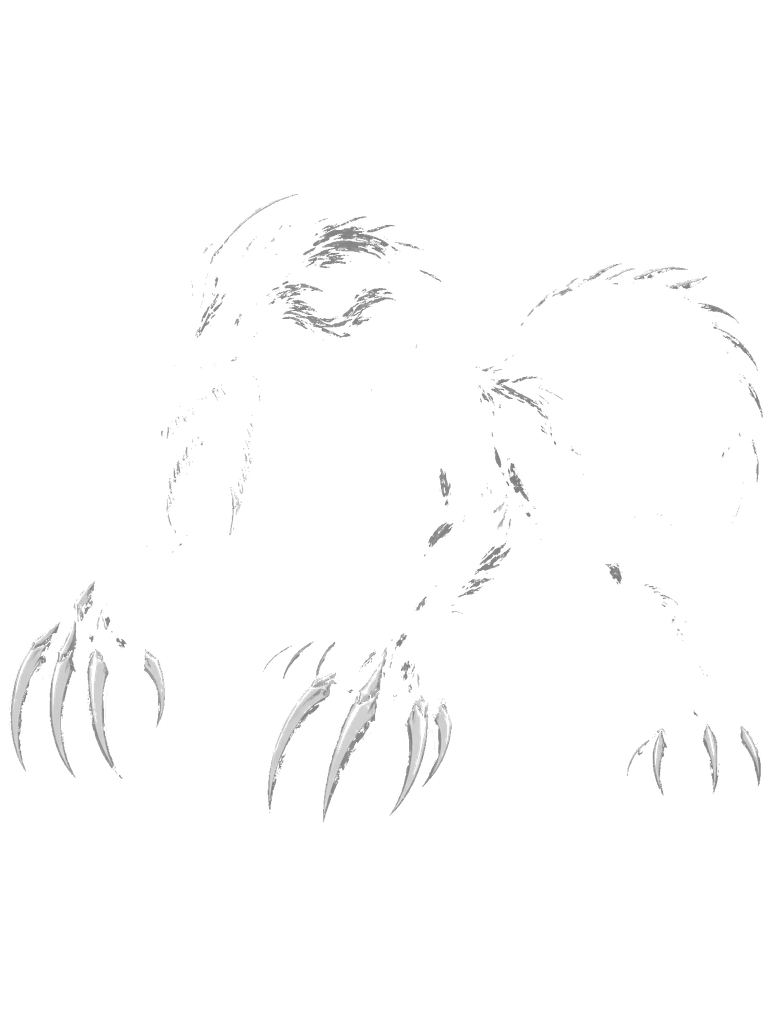
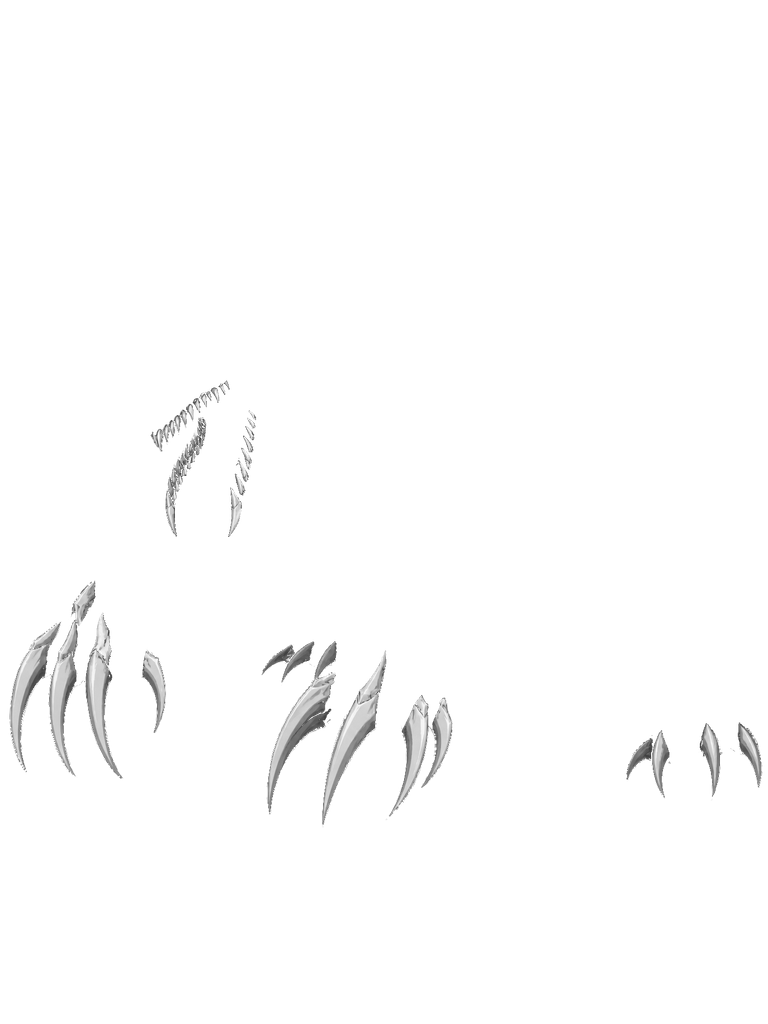
Add safe device progress transfer and refine Devourer selection colors

diff --git a/public/index.html b/public/index.html
@@ -11,6 +11,6 @@
 <section id="help" class="overlay modal" hidden><div class="panel"><h2>How to reign</h2><p>Move with WASD / arrows or the left thumb stick. Basic attacks fire automatically when prey is in range. Aim with your mouse; touch aim follows movement, then locks to nearby prey when stationary.</p><p>Use Q / E / R / Space or 1 / 2 / 3 / 4 for your selected monster's powers. Calamity places Starfall and Vortex with a second tap or click; Cancel or Escape clears the marker. Devourer gains rapid Lunge charges through Release. Lunge follows movement, or your last movement direction when stationary, and each cast briefly dodges damage. Check the kit in the registry. P / Escape pauses.</p><p>Kills add Carnage up to ×5. It decays gradually after 1.6 seconds without a kill. Enemy base points × Carnage earn Dominance. Waves, multikills and Run Feats award additional bonuses.</p><p>Survive to automatically reach Unbound I at 2:30, Unbound II at 5:00, Unbound III at 7:00 and Final Release at 8:30. Each release strengthens your kit. There is no win timer; aim for a longer, higher-scoring run. Ending an incarnation manually records a separate practice best.</p><p>Run Feats repeat within a run and award score. Monster Records and prestige Titles persist locally. Inspect all requirements in Monster Records. Titles grant no combat advantages. The Gatebreaker opens Stage 2 on October 8 after seven qualifying days with one champion. Stay out of red hostile rings.</p><button id="closeHelp" class="primary">I AM THE BOSS</button></div></section>
 <section id="paused" class="overlay modal" hidden><div class="panel"><span class="eyebrow">RITUAL SUSPENDED</span><h2 id="pauseName"></h2><p id="pauseIdentity"></p><div class="match-brief"><b id="pauseScenario"></b><p>Survive the swarm and build Dominance. Keep killing to sustain Carnage; multikills and feats add bonuses. There is no final victory screen.</p><p id="pauseTip"></p><p id="pauseRelease"></p></div><button id="resume" class="primary">RETURN TO CARNAGE</button><button id="endRun">END THIS INCARNATION</button><p>Combat and the run clock are stopped.</p></div></section>
 <section id="result" class="overlay modal" hidden><div class="panel result-panel"><div class="result-hero"><div class="result-copy"><span class="eyebrow">ISEKAI HELL · MONSTER MASH</span><h2 id="resultName"></h2><p id="resultIdentity"></p><div class="result-score"><span class="eyebrow">DOMINANCE</span><strong id="resultScore"></strong></div></div><canvas id="resultPortrait" width="256" height="256" hidden aria-label="Your monster portrait"></canvas></div><p id="resultOutcome" class="reign-outcome"></p><p id="outcomeDescription" class="small"></p><p id="resultContext" class="small"></p><p id="resultComparison" class="personal-best"></p><p id="stageProgress" class="stage-progress" hidden></p><p id="resultHighlight" class="run-highlight"></p><div id="stats" class="stats"></div><section id="newRecords" hidden></section><section id="newTitles" hidden></section><section><h3>RUN FEATS</h3><div id="feats" class="result-feats"></div></section><p class="small">Your body falls. Your legend remains.</p><div class="result-actions"><button id="again" class="primary">RISE AGAIN ↗</button><button id="back">CHANGE INCARNATION</button><button id="resultRecords">VIEW MONSTER RECORDS</button><button id="copy" title="Copy formatted results and the run code as text">COPY RESULTS</button><button id="copyCode" title="Copy only the verification code">COPY RUN CODE</button><button id="saveCard" title="Download a PNG image of your monster and results">SAVE RESULT CARD</button></div><p class="small share-guide"><b>Copy results</b> copies your summary and run code as text. <b>Copy run code</b> copies only the code for verification. <b>Save result card</b> downloads a PNG image; share the code alongside it for verification.</p><textarea id="runCode" readonly aria-label="Run code"></textarea><p id="resultStatus" class="small" aria-live="polite"></p></div></section>
-<section id="records" class="overlay registry" hidden><div class="registry-header"><div><span class="eyebrow">THE DARK CONTINENT · STATUS REGISTRY</span><h2>MONSTER RECORDS</h2></div><button id="closeRecords">RETURN ↙</button></div><canvas id="recordPortrait" width="256" height="256" hidden aria-label="Current incarnation portrait"></canvas><p id="recordIdentity" class="prestige-title"></p><p id="recordSummary"></p><section class="records-section"><h2>THIS STAGE’S PERSONAL BESTS</h2><p id="bestScope"></p><div id="personalBestList" class="record-grid"></div></section><section class="records-section"><h2>PERSISTENT RECORDS</h2><p>Best-run accomplishments. Your history persists; no combat bonuses.</p><div id="recordList"></div></section><section class="records-section"><h2>TITLES</h2><p id="titleSummary"></p><div id="titleList"></div></section><section class="records-section"><h2>RUN FEATS</h2><span class="eyebrow">RESET EACH INCARNATION</span><p>Repeatable displays of carnage performed during a single run.</p><div id="featList" class="record-grid"></div></section></section>
+<section id="records" class="overlay registry" hidden><div class="registry-header"><div><span class="eyebrow">THE DARK CONTINENT · STATUS REGISTRY</span><h2>MONSTER RECORDS</h2></div><button id="closeRecords">RETURN ↙</button></div><canvas id="recordPortrait" width="256" height="256" hidden aria-label="Current incarnation portrait"></canvas><p id="recordIdentity" class="prestige-title"></p><p id="recordSummary"></p><section class="records-section progress-transfer"><span class="eyebrow">YOUR LEGEND · EVERY DEVICE</span><h2>TAKE YOUR PROGRESS WITH YOU</h2><p>Finish your run, export a backup, then import it on your other device before playing there. Your titles, Gatebreaker days, records, name and colors travel with you.</p><div class="transfer-actions"><button id="exportProgress" type="button">EXPORT PROGRESS ↓</button><button id="importProgress" type="button">IMPORT PROGRESS ↑</button><button id="undoProgress" type="button" hidden>UNDO LAST IMPORT</button></div><input id="progressFile" type="file" accept=".json,application/json" hidden><div id="progressImportPreview" class="transfer-preview" hidden><p id="progressImportSummary"></p><div class="transfer-actions"><button id="confirmProgressImport" type="button" class="primary">APPLY BACKUP</button><button id="cancelProgressImport" type="button">CANCEL</button></div></div><p id="progressTransferStatus" role="status" aria-live="polite"></p><details><summary>How progress is combined</summary><p>Earned rewards and each champion’s qualifying days are combined. Bests and lifetime counters keep the higher value, so importing twice never adds the same kills or runs twice. Always transfer your latest backup before switching devices: unsynced lifetime totals from separate play on both devices cannot be added together. This is a manual backup, not automatic sync. Sound and FX settings stay on each device. Stage opening dates still apply.</p></details></section><section class="records-section"><h2>THIS STAGE’S PERSONAL BESTS</h2><p id="bestScope"></p><div id="personalBestList" class="record-grid"></div></section><section class="records-section"><h2>PERSISTENT RECORDS</h2><p>Best-run accomplishments. Your history persists; no combat bonuses.</p><div id="recordList"></div></section><section class="records-section"><h2>TITLES</h2><p id="titleSummary"></p><div id="titleList"></div></section><section class="records-section"><h2>RUN FEATS</h2><span class="eyebrow">RESET EACH INCARNATION</span><p>Repeatable displays of carnage performed during a single run.</p><div id="featList" class="record-grid"></div></section></section>
 <div id="controls" hidden><div id="joystick" aria-label="Touch movement joystick"><div></div></div><div id="abilities"></div></div>
 <section id="audioSettings" class="overlay modal" hidden><div class="panel"><h2>SETTINGS</h2><div id="effectSettings" class="effect-settings"></div><label for="volume-master">MASTER <output id="value-master"></output></label><input id="volume-master" type="range" min="0" max="100"><label for="volume-music">MUSIC <output id="value-music"></output></label><input id="volume-music" type="range" min="0" max="100"><label for="volume-sfx">COMBAT <output id="value-sfx"></output></label><input id="volume-sfx" type="range" min="0" max="100"><label for="volume-ui">INTERFACE <output id="value-ui"></output></label><input id="volume-ui" type="range" min="0" max="100"><label for="showPerf"><input id="showPerf" type="checkbox"> SHOW PERFORMANCE</label><p>Volume and performance settings stay in this browser.</p><button id="closeAudio" class="primary">DONE</button></div></section><footer id="preferences"><button id="audioButton" aria-label="Sound and effects settings">SETTINGS</button><button id="debugCopy">COPY DEBUG INFO</button><label><input id="mute" type="checkbox"> MUTE</label><label><input id="shake" type="checkbox" checked> SHAKE</label><label><input id="lowFX" type="checkbox"> LOW FX</label><span id="performance"></span></footer><div id="rotate"><span>↻</span><h2>Awaken in landscape</h2><p>Rotate your device for room to reign.</p></div><script type="module" src="src/main.js"></script></body></html>

diff --git a/src/progress-transfer.ts b/src/progress-transfer.ts
@@ -1,0 +1,51 @@
+import {normalizeProfile,type Profile,type StorageLike} from './profile.ts';
+import {awardTitles,type Totals} from './content-titles.ts';
+import {STAGE_GATES} from './stage-access.ts';
+
+export const MAX_PROGRESS_BYTES=1024*1024;
+export const IMPORT_BACKUP_KEY='mm-profile-before-import';
+const object=(v:unknown):v is Record<string,any>=>!!v&&typeof v==='object'&&!Array.isArray(v);
+export function progressExport(profile:Profile,now=new Date()){
+ const snapshot=normalizeProfile(profile);snapshot.progress.ledger=null;
+ return JSON.stringify({format:'monster-mash-progress',version:1,exportedAt:now.toISOString(),profile:snapshot},null,2);
+}
+export function parseProgressExport(text:string):Profile{
+ if(new TextEncoder().encode(text).length>MAX_PROGRESS_BYTES)throw Error('This file is too large to be a progress backup.');
+ let data:unknown;try{data=JSON.parse(text);}catch{throw Error('This file is not valid JSON. Choose an exported progress backup.');}
+ if(!object(data)||data.format!=='monster-mash-progress')throw Error('Choose a Monster Mash progress backup, rather than a run code or result card.');
+ if(data.version!==1)throw Error('This backup format is not supported by this version of Monster Mash.');
+ const p=data.profile;
+ if(!object(p)||p.version!==3||!object(p.identity)||typeof p.identity.name!=='string'||!object(p.palettes)||!object(p.records)||!object(p.personalBests)||!object(p.progress)||!['total','best','archetypes','titles'].every(k=>object(p.progress[k]))||!Array.isArray(p.progress.finished)||!Array.isArray(p.progress.legacyTitles))throw Error('This backup is incomplete or uses an unsupported save format. Your current progress has not changed.');
+ const profile=normalizeProfile(p);profile.progress.ledger=null;return profile;
+}
+const maxima=(a:Totals,b:Totals):Totals=>Object.fromEntries([...new Set([...Object.keys(a),...Object.keys(b)])].map(k=>[k,Math.max(a[k]||0,b[k]||0)]));
+const earlier=(a:string|undefined,b:string|undefined)=>!a?b:!b?a:Date.parse(a)<=Date.parse(b)?a:b;
+export function mergeProgress(local:Profile,incoming:Profile):Profile{
+ const a=normalizeProfile(local),b=normalizeProfile(incoming),merged=normalizeProfile(b),p=merged.progress;
+ p.total=maxima(a.progress.total,b.progress.total);p.best=maxima(a.progress.best,b.progress.best);
+ for(const id of Object.keys(p.archetypes))p.archetypes[id]=maxima(a.progress.archetypes[id],b.progress.archetypes[id]);
+ for(const id of new Set([...Object.keys(a.records),...Object.keys(b.records)])){
+  const left=a.records[id],right=b.records[id],date=earlier(left?.unlockedAt,right?.unlockedAt);
+  merged.records[id]={...(date===left?.unlockedAt?left:right),best:Math.max(left?.best||0,right?.best||0)};
+ }
+ for(const id of new Set([...Object.keys(a.progress.titles),...Object.keys(b.progress.titles)]))p.titles[id]=earlier(a.progress.titles[id],b.progress.titles[id])!;
+ p.legacyTitles=[...new Set([...a.progress.legacyTitles,...b.progress.legacyTitles])];
+ p.finished=[...new Set([...a.progress.finished,...b.progress.finished])].slice(-64);p.ledger=null;
+ for(const gate of STAGE_GATES){p.trials[gate.titleId]??={};for(const id of Object.keys(p.archetypes))p.trials[gate.titleId][id]=[...new Set([...(a.progress.trials[gate.titleId]?.[id]||[]),...(b.progress.trials[gate.titleId]?.[id]||[])])].sort().slice(-gate.days);}
+ for(const [key,best] of Object.entries(a.personalBests)){const other=merged.personalBests[key];merged.personalBests[key]={score:Math.max(best.score,other?.score||0),kills:Math.max(best.kills,other?.kills||0),seconds:Math.max(best.seconds,other?.seconds||0)};}
+ awardTitles(p);
+ return normalizeProfile(merged);
+}
+// Write before mutating the shared profile. Failed writes leave the running app untouched.
+export function applyProgressImport(profile:Profile,incoming:Profile,storage:StorageLike){
+ const merged=mergeProgress(profile,incoming);
+ storage.setItem(IMPORT_BACKUP_KEY,progressExport(profile));
+ storage.setItem('mm-profile',JSON.stringify(merged));
+ Object.assign(profile,merged);
+}
+export function undoProgressImport(profile:Profile,storage:StorageLike){
+ const backup=storage.getItem(IMPORT_BACKUP_KEY);if(!backup)throw Error('There is no import to undo.');
+ const previous=parseProgressExport(backup);storage.setItem('mm-profile',JSON.stringify(previous));
+ Object.assign(profile,previous);
+ try{storage.setItem(IMPORT_BACKUP_KEY,'');}catch{/* Restoring progress already succeeded. */}
+}

diff --git a/src/selection.ts b/src/selection.ts
@@ -23,7 +23,7 @@ export function showRecords(profile:Profile,phase=EVENT.phase){
  el('recordIdentity').textContent=[profile.identity.name,profile.identity.title,MONSTERS[profile.identity.monsterId].archetype].filter(Boolean).join(' · ');el('bestScope').textContent=scenarioText(phase)+' · '+EVENT.rules+' · saved in this browser';el('personalBestList').replaceChildren();for(const monster of Object.values(MONSTERS)){const card=document.createElement('article');card.className='record';const h=document.createElement('h3');h.textContent=monster.archetype;card.append(h);for(const reason of ['overwhelmed','retired'] as const){const best=profile.personalBests[bestKey({monsterId:monster.id,rules:EVENT.rules,phase,reason})],row=document.createElement('p');row.textContent=(reason==='retired'?'Practice':'Completed runs')+' · '+(best?best.score.toLocaleString()+' Dominance · best survival '+Math.floor(best.seconds/60)+':'+String(best.seconds%60).padStart(2,'0'):'No run yet');card.append(row);}el('personalBestList').append(card);}el('recordList').replaceChildren();el('titleList').replaceChildren();el('featList').replaceChildren();
  const p=profile.progress;el('recordSummary').textContent=(p.total.kills||0).toLocaleString()+' lifetime slain · '+Math.floor(p.total.dominance||0).toLocaleString()+' lifetime Dominance · '+(p.total.runs||0)+' incarnations ≥60s. Cosmetic records span all rulesets. Compare competition scores only within the same ruleset. Saved in this browser.';
  for(const a of ACHIEVEMENTS){const r=profile.records[a.id],card=document.createElement('article');card.className='record '+(r?.unlockedAt?'unlocked':'');const h=document.createElement('h3');h.textContent=a.icon+' '+a.name;const state=document.createElement('span');state.textContent=r?.unlockedAt?'EARNED · '+new Date(r.unlockedAt).toLocaleDateString():'IN PROGRESS';const description=document.createElement('p');description.textContent=a.condition;const bar=document.createElement('progress');bar.max=a.target;bar.value=Math.min(a.target,r?.best||0);bar.setAttribute('aria-label',a.name+' progress');const best=document.createElement('p');best.textContent='Best: '+Math.floor(r?.best||0).toLocaleString()+' / '+a.target.toLocaleString();card.append(h,state,description,bar,best);el('recordList').append(card);}
- const earned=TITLES.filter(t=>p.titles[t.id]).length;el('titleSummary').textContent=earned+' / '+TITLES.length+' prestige titles earned. Every listed condition is required. The Gatebreaker grants Stage 2 access once it opens; other titles are cosmetic.'+(p.legacyTitles.length?' Legacy rewards preserved: '+p.legacyTitles.join(', ')+'.':'');
+ const earned=TITLES.filter(t=>p.titles[t.id]).length;el('titleSummary').textContent=earned+' / '+TITLES.length+' prestige titles earned. Every listed condition is required. The Gatebreaker grants Stage 2 access for every champion once it opens; other titles are cosmetic.'+(p.legacyTitles.length?' Legacy rewards preserved: '+p.legacyTitles.join(', ')+'.':'');
  for(const family of new Set(TITLES.map(t=>t.family))){const section=document.createElement('section'),h=document.createElement('h3'),grid=document.createElement('div');h.textContent=family;grid.className='record-grid';section.append(h,grid);el('titleList').append(section);for(const t of TITLES.filter(t=>t.family===family)){const card=document.createElement('article'),name=document.createElement('h4'),state=document.createElement('span');card.className='record '+(p.titles[t.id]?'unlocked':'');name.textContent=t.name;state.textContent=p.titles[t.id]?'EARNED · '+new Date(p.titles[t.id]).toLocaleDateString():'LOCKED';card.append(name,state);for(const r of titleProgress(p,t)){const label=document.createElement('p'),bar=document.createElement('progress');label.textContent=Math.floor(r.value).toLocaleString()+' / '+r.target.toLocaleString()+' '+r.label;bar.max=r.target;bar.value=Math.min(r.target,r.value);bar.setAttribute('aria-label',t.name+' '+r.label);card.append(label,bar);}grid.append(card);}}
  for(const f of FEATS){const card=document.createElement('article'),h=document.createElement('h3'),description=document.createElement('p');card.className='record';h.textContent=f.name;description.textContent=FEAT_CONDITIONS[f.id]+' +'+f.bonus+' Dominance. Repeat cooldown: '+f.cooldown+'s.';card.append(h,description);el('featList').append(card);}
  el('records').hidden=false;el('records').scrollTop=0;

diff --git a/src/progress-transfer-ui.ts b/src/progress-transfer-ui.ts
@@ -1,0 +1,18 @@
+import {type Profile,type StorageLike} from './profile.ts';
+import {STAGE_GATES,trialDays} from './stage-access.ts';
+import {MAX_PROGRESS_BYTES,IMPORT_BACKUP_KEY,progressExport,parseProgressExport,mergeProgress,applyProgressImport,undoProgressImport} from './progress-transfer.ts';
+export function mountProgressTransfer(profile:Profile,storage:StorageLike|undefined,busy:()=>boolean,onApplied:()=>void){
+ const el=<T extends HTMLElement=HTMLElement>(id:string)=>document.getElementById(id) as T;
+ const status=el('progressTransferStatus'),preview=el('progressImportPreview'),file=el<HTMLInputElement>('progressFile'),undo=el<HTMLButtonElement>('undoProgress');
+ let pending:Profile|null=null,generation=0;
+ const refreshUndo=()=>{try{undo.hidden=!storage?.getItem(IMPORT_BACKUP_KEY);}catch{undo.hidden=true;}};
+ const clear=()=>{pending=null;preview.hidden=true;file.value='';generation++;};
+ const ready=()=>{if(busy()){status.textContent='Finish your current run before transferring progress.';return false;}return true;};
+ refreshUndo();
+ el('exportProgress').onclick=()=>{if(!ready())return;const url=URL.createObjectURL(new Blob([progressExport(profile)],{type:'application/json'})),link=document.createElement('a');link.href=url;link.download='monster-mash-progress-'+new Date().toISOString().slice(0,10)+'.json';link.click();setTimeout(()=>URL.revokeObjectURL(url),1000);status.textContent='Backup downloaded. Import this file on your other device before playing there. A run code does not transfer progress.';};
+ el('importProgress').onclick=()=>{if(!ready())return;clear();file.click();};
+ file.onchange=async()=>{if(!ready())return;const selected=file.files?.[0];if(!selected)return;const ticket=++generation;pending=null;preview.hidden=true;try{if(selected.size>MAX_PROGRESS_BYTES)throw Error('This file is too large to be a progress backup.');const incoming=parseProgressExport(await selected.text());if(ticket!==generation)return;if(!ready())return;const merged=mergeProgress(profile,incoming),gate=STAGE_GATES[0];pending=incoming;el('progressImportSummary').textContent=`From ${incoming.identity.name}: your saved progress will keep ${merged.progress.total.runs||0} incarnations, ${(merged.progress.total.kills||0).toLocaleString()} lifetime kills and ${Object.keys(merged.progress.titles).length} earned titles.${gate?' '+gate.title+': '+trialDays(merged.progress.trials,gate)+' / '+gate.days+' days with one champion.':''} The backup’s name, equipped title and monster colors will be used. Current rewards and bests are retained. Sound and FX settings stay on this device.`;preview.hidden=false;status.textContent='Review the backup, then confirm to import. Nothing has changed yet.';}catch(error){if(ticket!==generation)return;clear();status.textContent=error instanceof Error?error.message:'Could not read the progress backup. Your progress has not changed.';}};
+ el('cancelProgressImport').onclick=()=>{clear();status.textContent='Import cancelled. Your progress has not changed.';};
+ el('confirmProgressImport').onclick=()=>{if(!ready()||!pending)return;if(!storage){status.textContent='Browser storage is unavailable. Import was not applied.';return;}try{applyProgressImport(profile,pending,storage);}catch{status.textContent='Browser storage could not save the import. Your current progress has not changed.';return;}clear();onApplied();refreshUndo();status.textContent='Progress imported and saved. Stage opening dates still apply. You can undo this import here.';};
+ undo.onclick=()=>{if(!ready()||!storage)return;if(!confirm('Undo the last import? This restores your progress from before that import, including its name and colors. Any progress earned since that import will be removed.'))return;try{undoProgressImport(profile,storage);}catch{status.textContent='Could not restore the backup. Your current progress has not changed.';return;}clear();onApplied();refreshUndo();status.textContent='Previous progress restored and saved.';};
+}

diff --git a/src/main.ts b/src/main.ts
@@ -11,6 +11,7 @@ import {createIdentity} from './identity.ts';
 import {MONSTERS,ABILITIES,abilityLabel} from './content-monsters.ts';
 import {loadProfile,saveProfile,updateRecords,recordProgress} from './profile.ts';
 import {mountSelection,showRecords} from './selection.ts';
+import {mountProgressTransfer} from './progress-transfer-ui.ts';
 import {abilityIcon} from './ability-icons.ts';
 import {TITLES} from './content-titles.ts';
 import {ACHIEVEMENTS} from './content-records.ts';
@@ -32,6 +33,7 @@ async function refreshStageClock(){const stamp=await serverTime();stageServerTim
 async function chooseStage(phase:number){if(phase===0){selectedPhase=0;renderStages();refreshSelection();return;}const gate=gateForStage(phase);if(!gate){renderStages('Stage '+(phase+1)+' awaits its own title, map and release date.');return;}if(stageAccess(phase,profile.progress,stageServerTime)==='title'){renderStages(`${gate.title}: ${trialDays(profile.progress.trials,gate)} / ${gate.days} qualifying days with one champion. Stage ${phase+1} remains locked.`);return;}if(!verifiedStages.has(phase))await refreshStageClock();const state=stageAccess(phase,profile.progress,stageServerTime);if(state!=='open'||!verifiedStages.has(phase)){renderStages(state==='date'?'Stage '+(phase+1)+' remains locked until '+openingText(gate)+'.':'Connect to check the official opening time before selecting Stage '+(phase+1)+'.');return;}selectedPhase=phase;renderStages();refreshSelection();}
 renderStages();void refreshStageClock();
 $('recordsButton').onclick=()=>showRecords(profile,selectedPhase);$('resultRecords').onclick=()=>showRecords(profile,game?.phase??selectedPhase);$('closeRecords').onclick=()=>{$('records').hidden=true;refreshSelection();};
+mountProgressTransfer(profile,storage,()=>!!game&&!game.ended,()=>{$<HTMLInputElement>('name').value=profile.identity.name;safeWrite('mm-name',profile.identity.name);refreshSelection();renderer.previewIdentity=profile.identity;renderStages();showRecords(profile,game?.phase??selectedPhase);});
 function trackRecords(finished=false,flush=false,reason:'overwhelmed'|'retired'='retired',endedAt=new Date()){if(!game)return;const unlocked=updateRecords(profile,game.score.metrics(),game.identity);for(const id of unlocked){newRecords.push(id);const a=ACHIEVEMENTS.find(a=>a.id===id)!;game.announce('RECORD · '+a.name);audio.play('achievement');}if(flush||finished||unlocked.length||game.time-recordSaveTime>5){const s=game.score,sources=s.sources;const earned=recordProgress(profile,{id:runId,monsterId:game.monster.id,phase:game.phase,reason,values:{kills:s.kills,dominance:s.dominance,seconds:game.time,elites:s.elites,titans:s.titans,...sources,owned:(sources.controlled||0)+(sources.summoned||0),magic:['beam','meteor','vortex','ultimate'].reduce((n,k)=>n+(sources[k]||0),0),eliteDevoured:s.eliteDevoured},best:{seconds:game.time,wave:game.wave,multi:s.largestMulti,carnage:s.maxStreak,dominance:s.dominance,calamityMulti:game.monster.id==='calamity'?s.largestMulti:0}},finished,endedAt);for(const id of earned){newTitles.push(id);game.announce('TITLE EARNED · '+TITLES.find(t=>t.id===id)!.name);audio.play('title');}recordSaveTime=game.time;persist();}}
 for(const id of ['mute','shake','lowFX']){const el=$<HTMLInputElement>(id);el.checked=safeRead('mm-'+id,id==='mute'?(audio.muted?'1':'0'):id==='shake'&&!matchMedia('(prefers-reduced-motion: reduce)').matches?'1':'0')==='1';el.addEventListener('change',()=>{safeWrite('mm-'+id,el.checked?'1':'0');applyPreferences();});}
 function applyPreferences(){audio.muted=$<HTMLInputElement>('mute').checked;renderer.shake=$<HTMLInputElement>('shake').checked;renderer.low=$<HTMLInputElement>('lowFX').checked;}applyPreferences();

diff --git a/public/event.css b/public/event.css
@@ -73,3 +73,4 @@
 .reign-outcome{font-family:Georgia,serif;font-size:clamp(18px,3vw,26px);color:#efc889;margin:18px 0 8px}.share-guide{line-height:1.65;text-align:left;color:#bbaaad}.share-guide b{color:#e0c49f}
 
 .stage-progress{color:#e2ca9e;border-left:3px solid #b89459;background:#2c231f;padding:10px 12px;font-size:13px;line-height:1.45}
+.progress-transfer{border:1px solid #745846;background:linear-gradient(120deg,#2a1e26,#18151e);padding:20px;clear:both}.progress-transfer h2{margin:8px 0}.progress-transfer p{line-height:1.6;overflow-wrap:anywhere}.transfer-actions{display:flex;flex-wrap:wrap;gap:10px;margin:15px 0}.transfer-actions button{min-height:44px}.transfer-preview{border-left:3px solid #c29b61;padding:8px 16px;background:#342a2880}.progress-transfer details{font-size:12px;color:#c3b4b1}.progress-transfer summary{cursor:pointer;color:#e0c49f}#progressTransferStatus{color:#e6c693;min-height:1.6em;font-size:13px}@media(max-width:650px){.progress-transfer{padding:14px}.transfer-actions button{flex:1 1 150px}.progress-transfer h2{font-size:21px}}

diff --git a/LIVE_EVENT_TRANSFER_REPORT.md b/LIVE_EVENT_TRANSFER_REPORT.md
@@ -1,0 +1,29 @@
+# Live-event menu update — October 1, 2026
+
+Stage 1 simulation, champion kits, enemy behavior, scoring, release progression, Gatebreaker requirements and opening date are unchanged. Rules remain `2026.10-v15-autotarget-squad`. Save schema remains v3 and the existing `mm-profile` key remains in use. No reset or migration runs on loading the update.
+
+## Device transfer
+
+Open **Monster Records**, choose **Export Progress**, send the downloaded JSON file to the other device, then choose **Import Progress** there. Review and apply the backup before playing on the new device. Repeat this handoff when switching back. A result card or run code describes one run and cannot transfer a profile.
+
+Backups include identity, palettes for all champions, earned titles and legacy rewards, record bests, scoped personal bests, lifetime/champion counters, completed run IDs and dated stage trials. Sound/FX settings remain device-local. Unfinished-run bookkeeping is removed from a portable snapshot; live matches cannot be imported, undone or exported, and matches cannot be resumed on another device.
+
+Imports keep maximum lifetime/best counters, union earned rewards, and combine unique qualifying dates independently for each champion. Reimporting does not duplicate counters or qualifying days. Always transfer the latest backup before switching: old saves have only cumulative counters, so independent unsynced sessions on two devices cannot be reliably summed. The higher total is retained; this limitation is explained in the interface and preview help.
+
+A preview allows cancellation without writes. Applying an import first saves the current profile in `mm-profile-before-import`, then persists the combined profile; in-memory data changes only after successful writes. Undo restores that snapshot and explains that subsequent progress will be removed. Storage errors leave current progress unchanged. Invalid, oversized, unsupported or incomplete backup files are rejected before mutation. Profiles are local editable data, not authenticated server accounts.
+
+Gatebreaker still requires seven qualifying dates on one champion. Those dates can span devices through transfer. Once earned, the title opens Stage 2 for **all five champions**, subject to the existing official opening check: October 8, 2026, midnight Eastern. Imports do not bypass this date. The records page now states that access covers every champion.
+
+## Artwork
+
+Only Devourer's four selection tint masks were rebuilt using an imagegen material guide and the existing drawing. Source shading is clamped to avoid byte overflow. Base, gameplay, portrait and cut-in images are unchanged. See `art-source/devourer/SELECTION_COLOR_GUIDE.md` for the saved prompt and reproducible processing.
+
+## Verification
+
+- 91 unit tests pass, including deterministic gameplay, palette neutrality, existing Stage 1 abilities, title gating and seven new progress transfer tests.
+- Browser phone → PC → phone handoff passes: preview/cancel, persistence after reload, identity/palettes, earned rewards, seven same-champion dates, exact sequential cumulative totals, duplicate imports, malformed file rejection, undo and active-run guards.
+- All 80 art masks validate. Before/after compositions reviewed with strongly contrasting colors; small detached material flecks decreased by 63%.
+- Production build succeeds. New modules enter the same content-hashed service-worker cache as the existing game; the existing safe-update behavior continues to wait until the player returns to the menu.
+- A simulated update during paused combat remains waiting through combat and results; it activates only on return to the menu. Saved identity and the offline progress-transfer menu survive activation.
+
+Tests use desktop Edge with mobile viewport/touch emulation. Native iOS/Android file picker and share workflows still need human device testing. Stage 2 balance options are proposals in `STAGE2_OPTIONS.md`, not implemented by this update.

diff --git a/STAGE2_OPTIONS.md b/STAGE2_OPTIONS.md
@@ -1,0 +1,17 @@
+# Stage 2: reward pursuit and impact
+
+These are design options, not live balance changes. The organizer reports Overlord leading Dominance, with Calamity and Sovereign also strong. Without a submitted results dataset, the size of those gaps is not yet measured here. Stage 1 remains untouched.
+
+Overlord turns many weak bodies into parallel servant and corruption scoring opportunities. Calamity clears dense groups at range; Sovereign combines ranged magic and close attacks. Devourer benefits from speed, repeated lunges, execution and close feeding. Titan benefits from movement, launches, collisions and trample. Stage 2 should therefore place more value on reaching a target and breaking a formation than simply clearing the largest continuous mass of weak prey.
+
+| Option | Why Devourer/Titan benefit | Caster/army tradeoff and risk |
+|---|---|---|
+| Scattered priority hunts | Valuable captains or couriers arrive in separated sectors. Devourer can close the gap and execute; Titan can charge through an escort. A trophy needs champion contact to claim its objective bonus. | Distant AoE and servants can defeat escorts, but the champion still has to travel to claim the prize. Limit simultaneous trophies and keep pickup windows generous enough for slower champions. Avoid spawning straight into existing persistent damage fields. |
+| Breakable vanguard formations | Introduce armored, **launchable** troops in compact fronts. Launch/collision damage breaks their guard; Devourer can flank to attack an exposed side or reach a vulnerable leader. | Explicit, readable guard rules reduce easy full-value splash farming. All champions need an ordinary-damage way to break guards; no hard magic immunity. Existing elites/Titans resist launch, so merely adding more of those would fail to reward Titan's signature mechanic. |
+| Rotating breach objectives | Short, announced objectives alternate locations. Completing a hunt, breaking a formation or personally entering an opened breach grants a capped Stage 2 bonus. | Rewards mobility, timing and positioning. AoE remains useful for clearing the path, but idle army farming earns less of the stage's objective budget. Clear telegraphs and objective status are required so this does not become confusing busywork. |
+
+Recommendation: prototype **scattered hunts plus launchable vanguards** first, within the current arena. Add objectives only if those encounters do not close the gap enough. Give ordinary fodder a smaller share of Stage 2's scoring opportunity and allocate a meaningful, bounded share to priority encounters. Keep total threat manageable rather than simply doubling enemy HP.
+
+Avoid global caster damage nerfs, champion-speed-linked pursuit, blanket magic immunity, narrow choke points full of densely packed prey, or a boss-only stage. Choke points and slower high-HP hordes can strengthen vortex/beam/army strategies; boss-only encounters deny Titan launch targets. A new map alone is unlikely to equalize Dominance if the same kill sources and crowd density remain.
+
+Before enabling any option, run the same seeds and comparable input policies for all five champions, compare survival, kills/minute, Dominance/minute and objective conversion, then test with humans who play each kit well. Include the objective bonus in visible results and keep Stage 2 comparisons separate from Stage 1. Judge improvement against the observed Stage 2 baseline; no numeric bonus or fairness promise is justified without those results.

diff --git a/art-source/devourer/SELECTION_COLOR_GUIDE.md b/art-source/devourer/SELECTION_COLOR_GUIDE.md
@@ -1,0 +1,11 @@
+# Devourer selection color regions — October 1, 2026
+
+Generated with the built-in imagegen tool in edit mode, using `selection-master.png` as the sole reference, with a transparent background. Output saved as `selection-color-guide.png`. This guide supplies region membership only; the original master supplies all displayed drawing, shading and silhouette pixels.
+
+Prompt:
+
+> Use case: precise-object-edit. Asset type: registered material-region guide for an existing game character's recoloring masks. Input image 1 is the exact edit target; preserve its pose, silhouette, proportions, body parts, and exact placement. Produce a FLAT COLOR SEGMENTATION GUIDE of this same Devourer image, not a new character drawing. Keep the whole existing creature, including the same tail and claws, identically positioned in the same 1376 by 1152 canvas. Remove all shading, texture, lighting, glowing fringe and tiny scattered speckles. Replace every bone carapace plate (including skull, horns, rib armor, arm plates, legs and segmented tail) with one solid pure BLUE #0000ff region; replace brown fur and brown body flesh with one solid pure MAGENTA #ff00ff region; replace golden claw talons and teeth with solid YELLOW #ffff00; replace red exposed chest tissue, mouth interior, tongue and eyes with solid RED #ff0000. Internal very deep occlusion can remain black. Material boundaries must follow the actual anatomical shapes in the original with clean continuous precisely anti-aliased edges, no dither, no checkerboard or pixelated patches. Background genuinely transparent. Do not redraw, resize, move or reinterpret the subject. Do not include text, labels, extra objects or additional colors. This is a technical color-region guide, so fill each anatomical material region continuously even where the reference has highlights or shadows.
+
+Run `node tools/refine-devourer-selection.mjs` to regenerate the four selection masks after rebuilding base art. The full `tools/rebuild-character-art.ps1` pipeline includes this step. The tool preserves dark source ink, saturates grayscale shading to avoid byte overflow, resamples smooth edges, and clips alpha to the existing selection base. Gameplay, portrait, cut-in and base images are not modified by this step.
+
+Validation: all 80 tint masks pass registration, transparency, grayscale and silhouette containment checks. In a high-contrast browser composition, small disconnected mask islands (≤6 pixels, alpha ≥96) decreased from 2,626 to 978; visual review confirms continuous material regions and retained source detail. Screenshots are in ignored `test-results/devourer-selection-{before,after,comparison}.png`.

diff --git a/PROGRESSION.md b/PROGRESSION.md
@@ -24,4 +24,6 @@ Only finished incarnations lasting >=60 seconds count toward run requirements. L
 
 mm-profile version 3 migrates version 1/2 identity, per-kit palettes and records. It preserves previously earned legacy titles, explicitly labeled as legacy in Records, without inventing historical lifetime totals. Unknown/corrupt fields normalize safely; blocked local storage leaves in-memory play usable. This is local last-writer-wins storage: do not play simultaneous tabs, clear site data, or treat it as verified competition data.
 
+Monster Records now offers manual **Export Progress / Import Progress**. Transfer the latest JSON backup before playing on another device. Imports combine rewards and unique trial dates per champion, retain maximum bests and counters, and transfer identity/palettes while keeping device audio/FX preferences. Independent unsynced lifetime totals cannot be summed reliably; the higher value is retained. Imports have a preview and a stored undo snapshot, reject invalid files, and are blocked during matches. No save schema or competition rules changed. Gatebreaker opens Stage 2 for the entire roster, even though its seven days must be earned by one champion. See [LIVE_EVENT_TRANSFER_REPORT.md](LIVE_EVENT_TRANSFER_REPORT.md).
+
 For development, open /art-lab.html directly on localhost. The reset control is not linked from the player UI, only appears on loopback hosts, and requires the exact typed phrase RESET PROGRESSION. Close other game tabs before resetting, then reload them. It clears only progression and an unavailable equipped title; name, palettes and audio preferences remain. This is an accidental-reset safeguard, not authentication.
